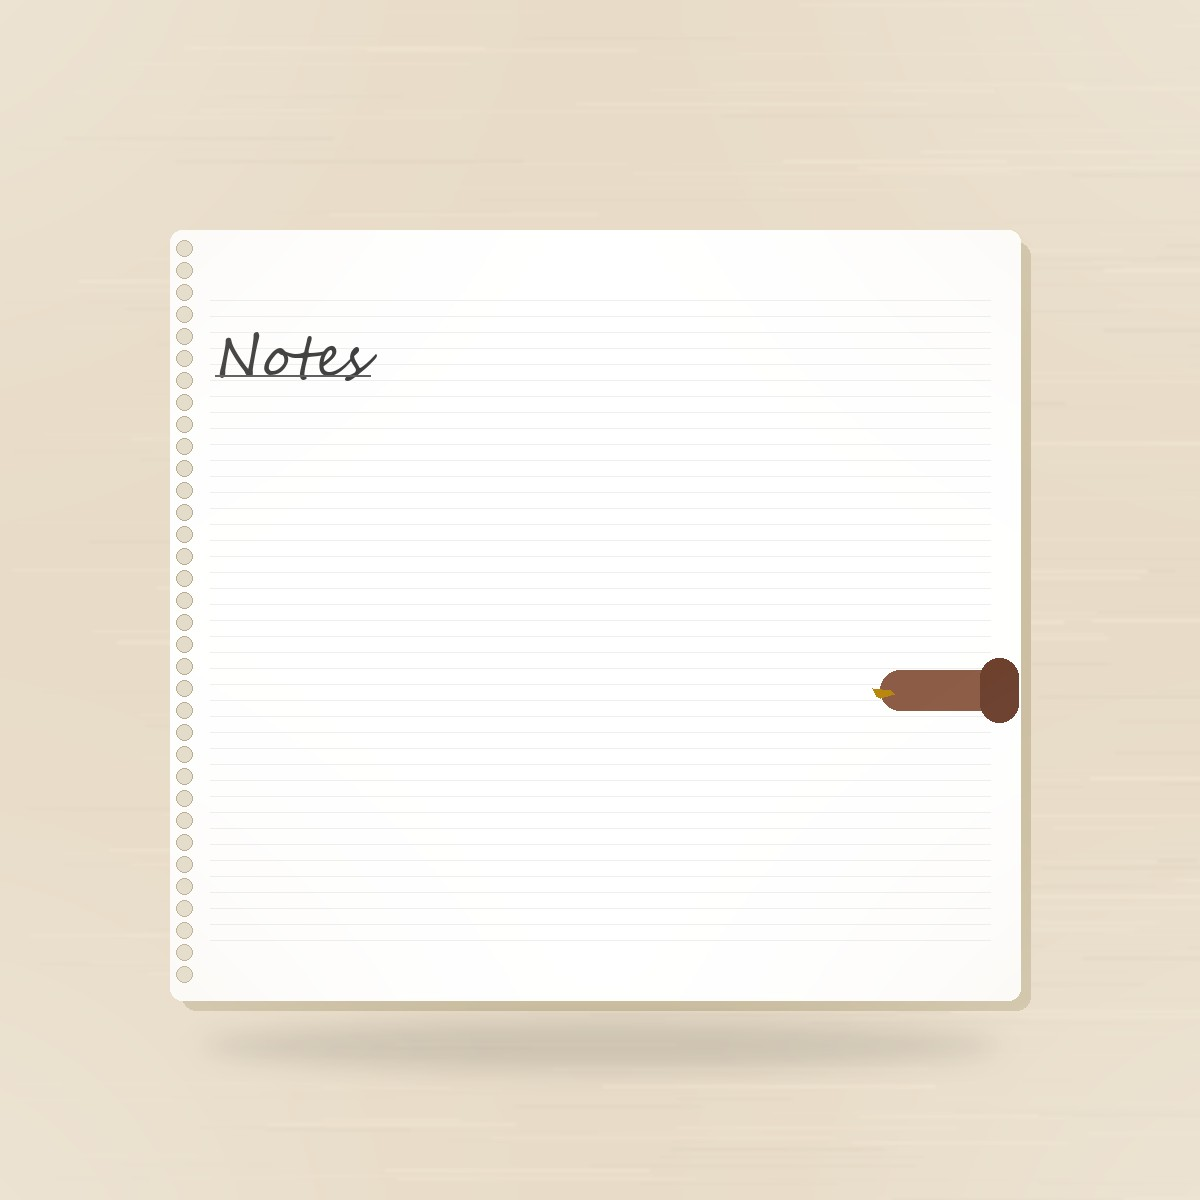
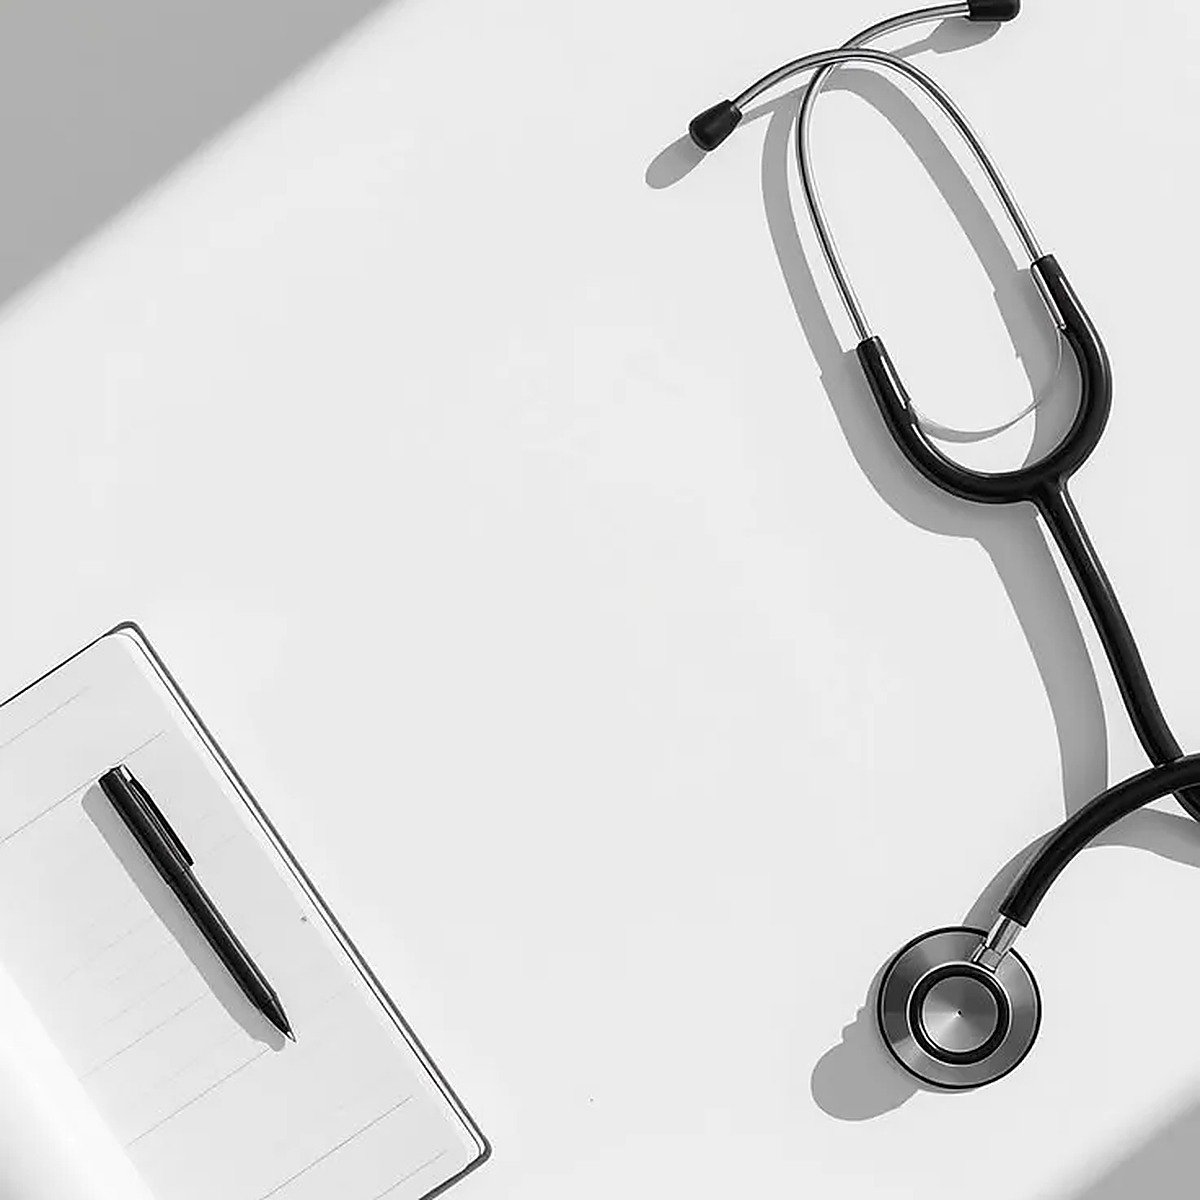
Use client-provided notebook photo in about block

diff --git a/o-kompanii.html b/o-kompanii.html
@@ -94,7 +94,7 @@
           </div>
 
           <aside class="expert-card reveal">
-            <img src="img/notebook.jpg" alt="Блокнот с записями, ручка и очки на рабочем столе" loading="lazy">
+            <img src="img/notebook.jpg" alt="Блокнот с ручкой и стетоскоп на рабочем столе" loading="lazy">
             <h3>Клинический подход</h3>
             <p>Оборудование и препараты VIREO разработаны вместе с практикующими врачами-дерматологами и косметологами. Мы сопровождаем специалистов: помогаем с выбором аппарата, протоколами процедур и обучением.</p>
             <div class="expert-meta">
